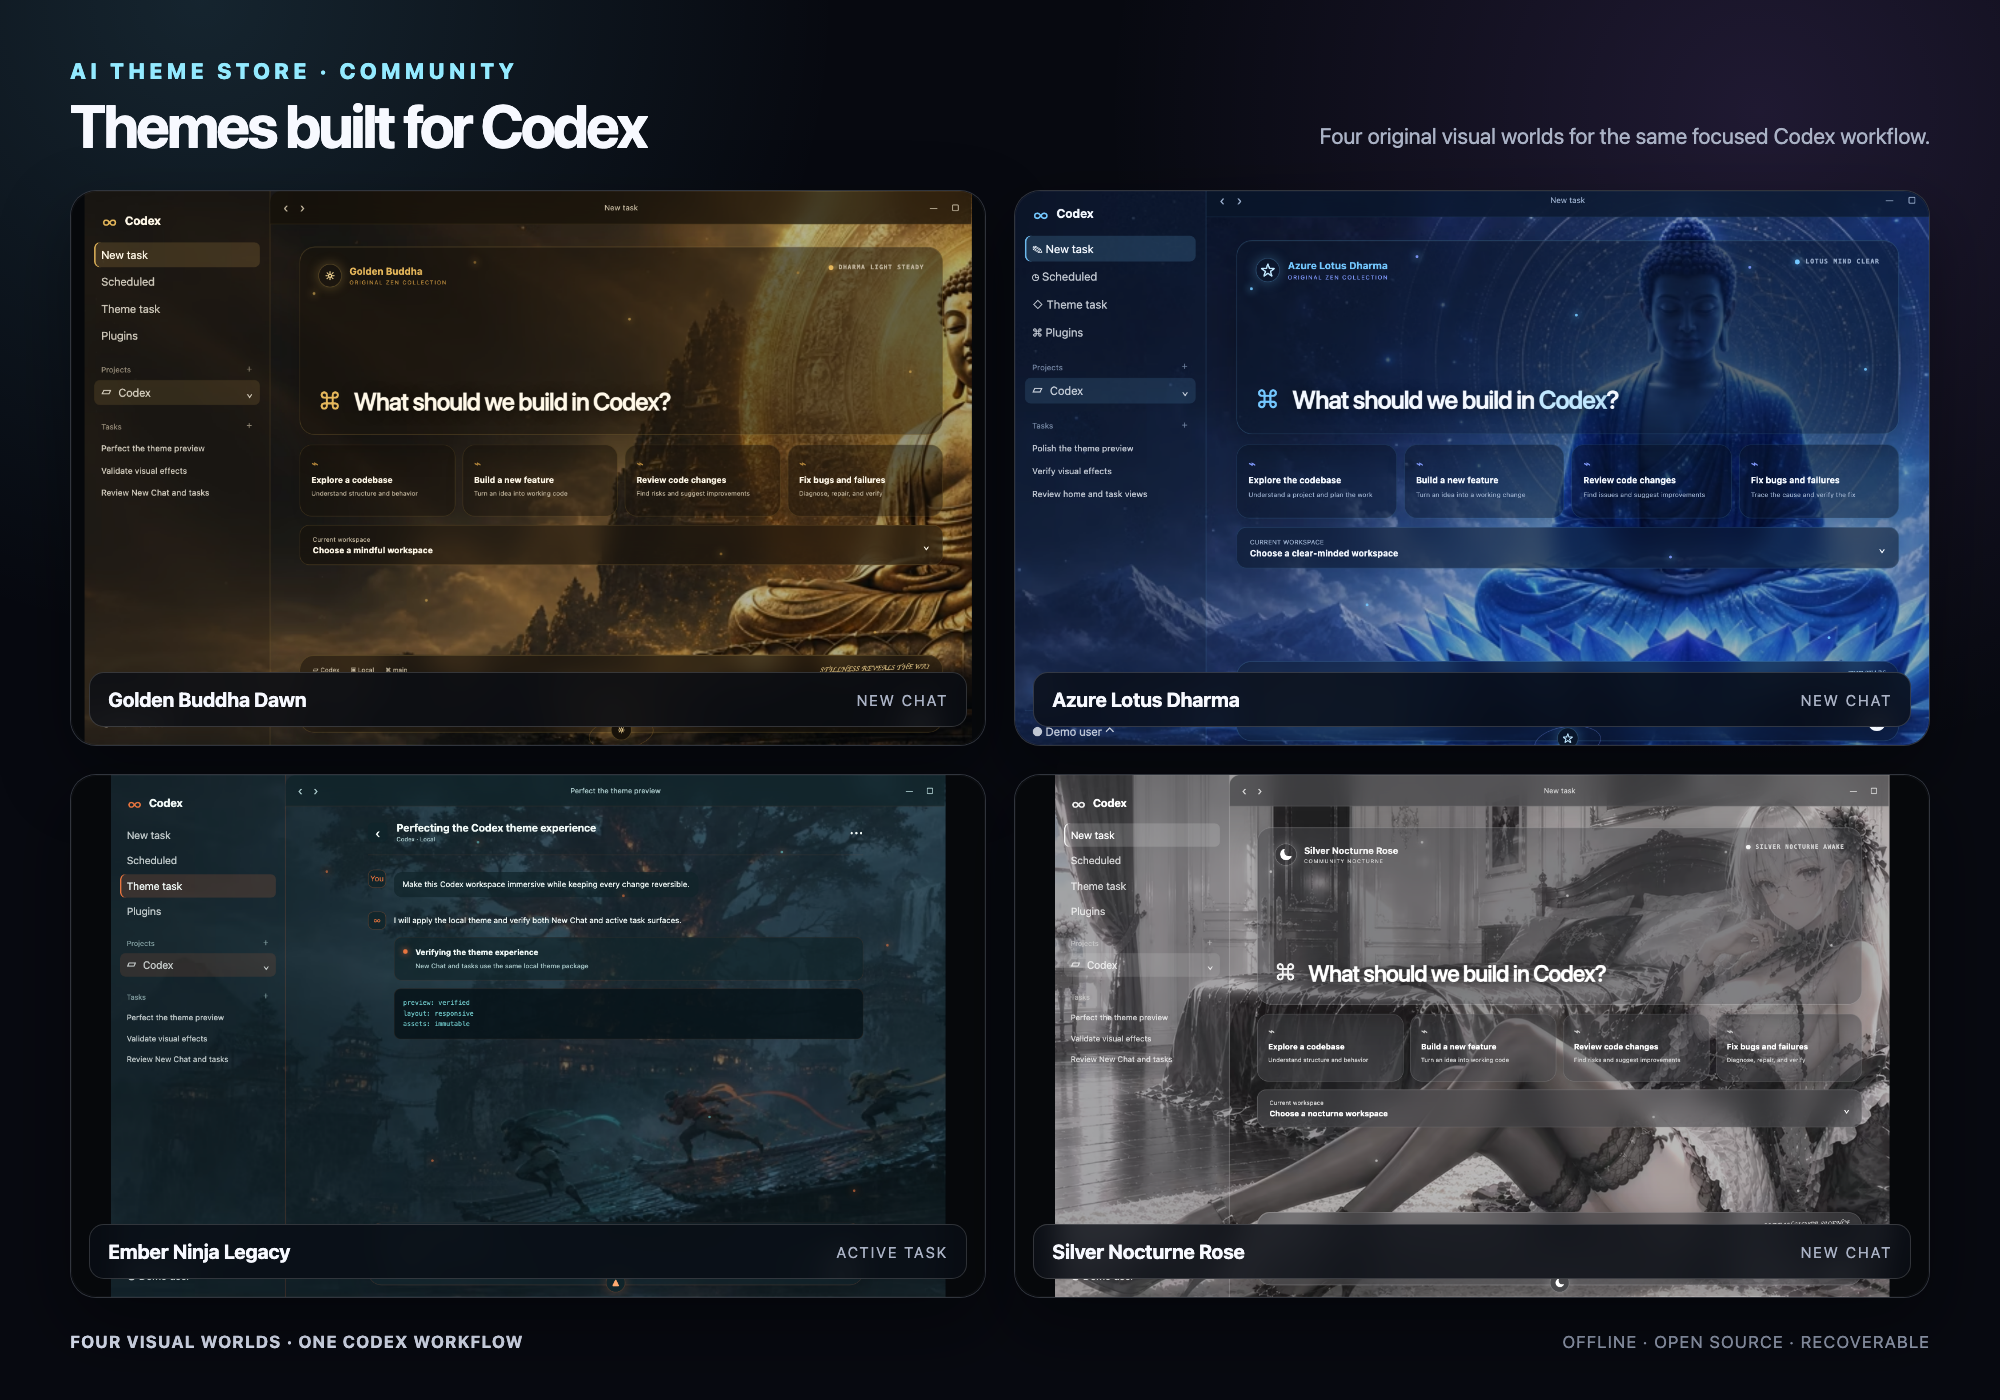
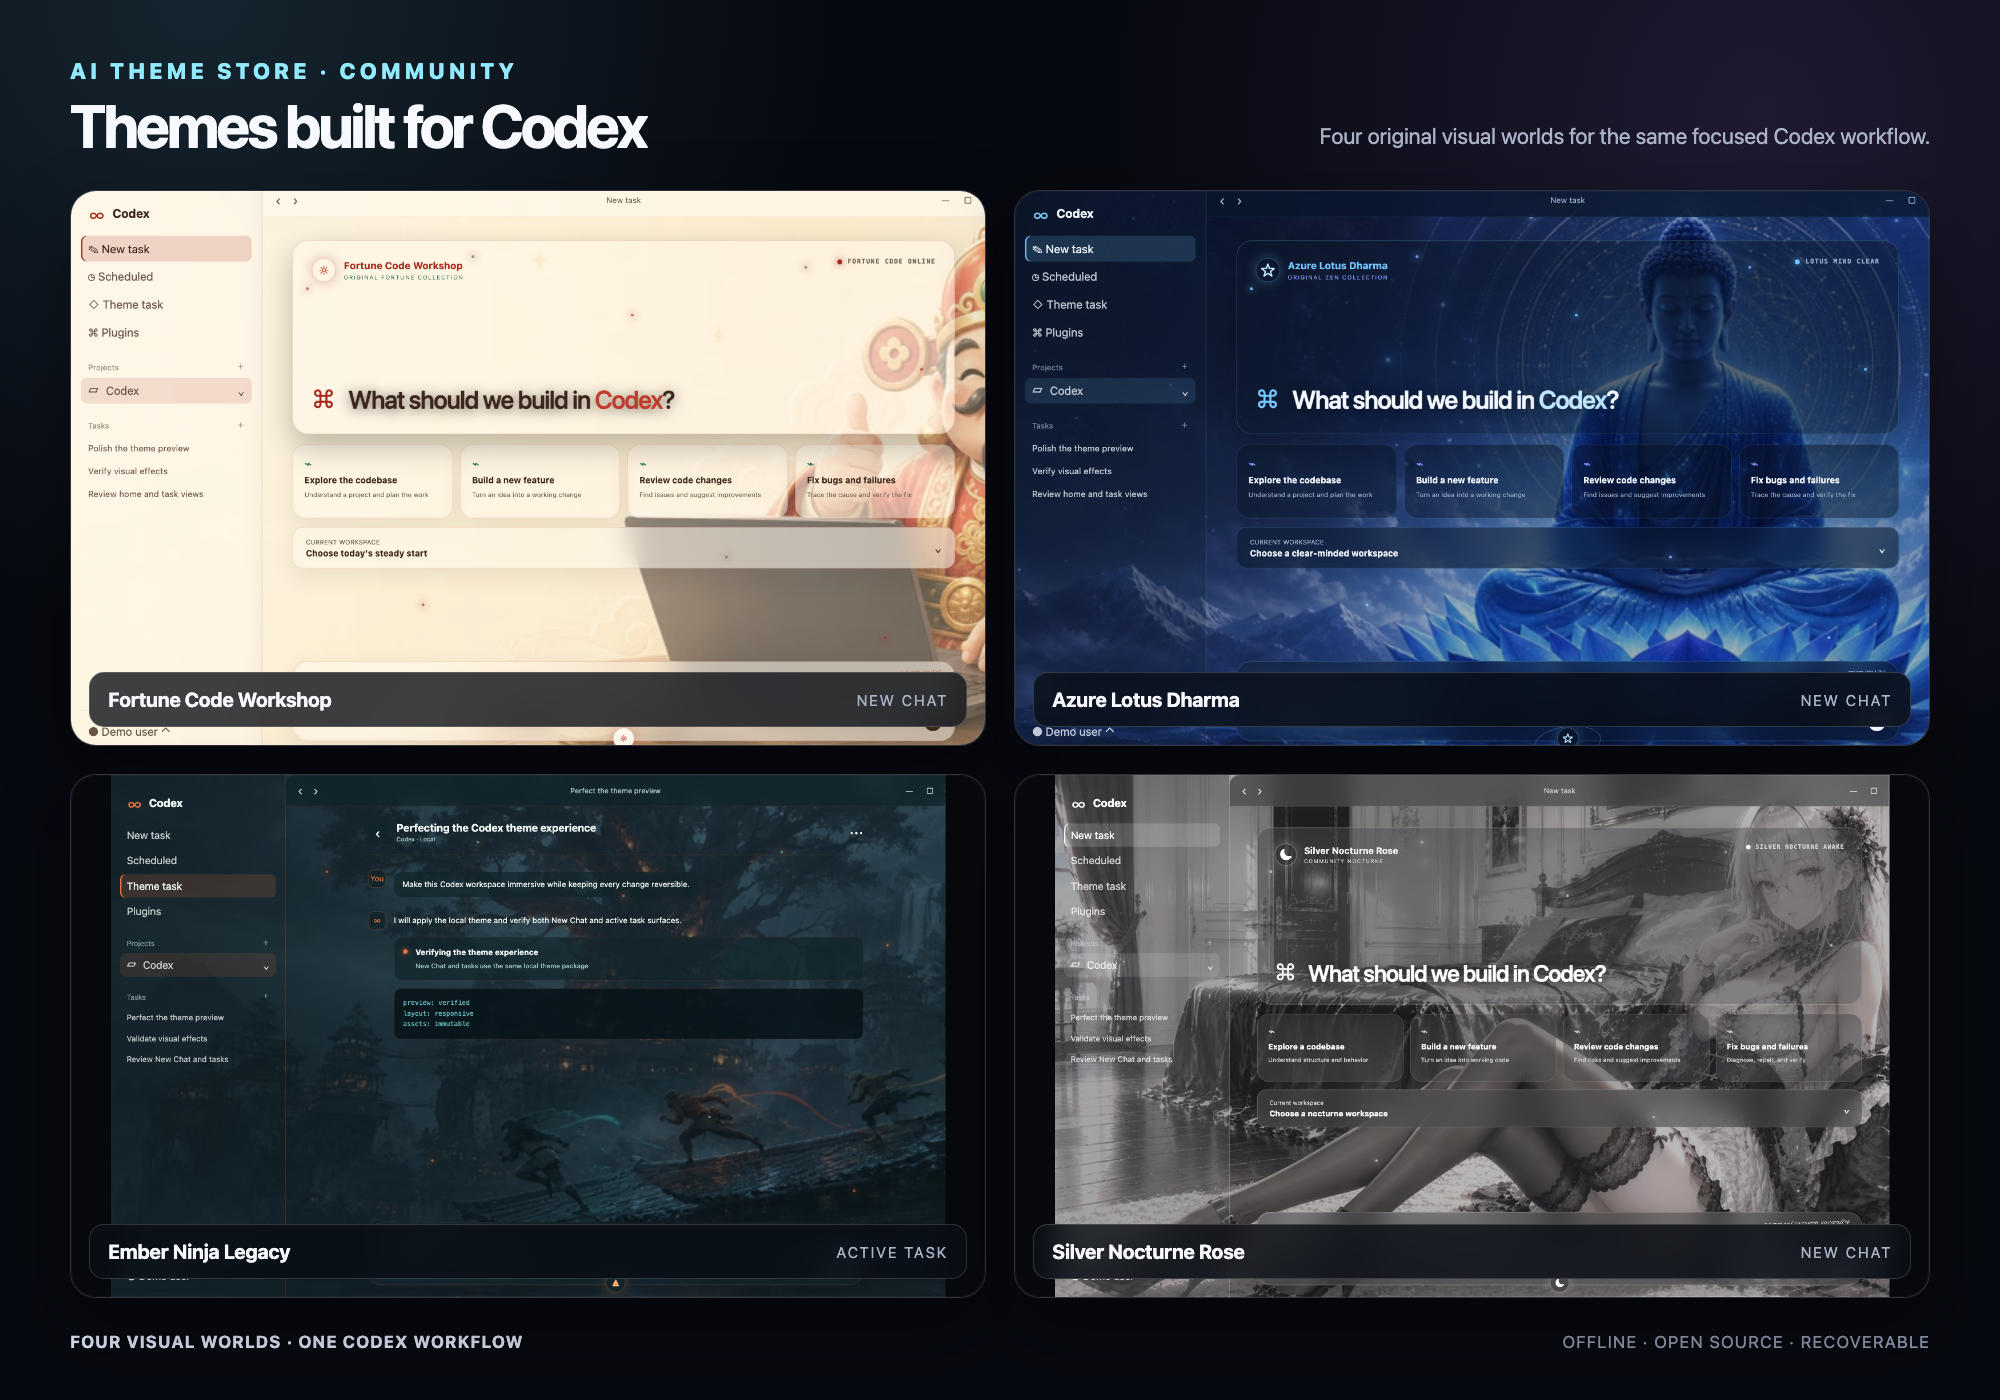
docs: feature Fortune Code Workshop (#2)

Changed region(s): [[0.031, 0.1229, 0.496, 0.5529]]

diff --git a/docs/images/README.md b/docs/images/README.md
@@ -1,10 +1,10 @@
 # README image provenance
 
 The PNG files in this directory are sanitized, high-fidelity Codex interface
-previews. The README showcase uses these project-owned source themes from the
-wider ThemeStore catalog:
+previews and project social artwork. The README showcase uses these
+project-owned source themes from the wider ThemeStore catalog:
 
-- `golden-buddha-dawn/hero.png` — original Buddha and Zen collection
+- `fortune-code-workshop/hero.png` — original Chinese fortune-workbench collection
 - `azure-lotus-dharma/hero.png` — original blue Buddha and Zen collection
 - `ember-ninja-legacy/hero.png` — original, non-franchise ninja world
 - `silver-nocturne-rose/hero.png` — ThemeStore Community theme
@@ -13,6 +13,9 @@ The original ninja asset is used deliberately instead of the personal-use
 `hero-ip.png` fan asset. No third-party character fan artwork is included.
 The showcase themes are examples of the engine's range and are not part of the
 three starter theme packages bundled with this repository.
+
+`x-launch-fortune-code-workshop.png` is a deterministic campaign composition
+built from the sanitized Fortune Code Workshop preview.
 
 The images contain no real account, project, file path, server, or conversation
 data.

diff --git a/README.md b/README.md
@@ -18,12 +18,12 @@ making every change reversible.
 ## Codex, themed
 
 This sanitized, high-fidelity showcase brings together four visual worlds from
-the wider ThemeStore catalog: **Golden Buddha Dawn**, **Azure Lotus Dharma**,
+the wider ThemeStore catalog: **Fortune Code Workshop**, **Azure Lotus Dharma**,
 **Ember Ninja Legacy**, and **Silver Nocturne Rose**. It demonstrates both New
 Chat and active task surfaces without using real account, project, or
 conversation data.
 
-![Golden Buddha Dawn, Azure Lotus Dharma, Ember Ninja Legacy, and Silver Nocturne Rose themes for Codex](./docs/images/codex-theme-showcase.png)
+![Fortune Code Workshop, Azure Lotus Dharma, Ember Ninja Legacy, and Silver Nocturne Rose themes for Codex](./docs/images/codex-theme-showcase.png)
 
 The ninja panel uses the original, non-franchise `Ember Ninja Legacy` artwork.
 No third-party character fan art is included in this repository.

diff --git a/README.zh-CN.md b/README.zh-CN.md
@@ -16,10 +16,10 @@
 ## Codex 主题效果
 
 这张经过信息清理的高保真组合图展示了完整主题库中的四种视觉世界：
-**佛陀 · 万山朝光**、**佛陀 · 青莲法界**、**Ember Ninja Legacy** 与
+**财神 · 稳稳开工**、**佛陀 · 青莲法界**、**Ember Ninja Legacy** 与
 **银夜蔷薇**，同时覆盖 New Chat 和运行中任务，不包含任何真实账号、项目或对话数据。
 
-![Codex 的金色佛陀、蓝色佛陀、Ember Ninja Legacy 与银夜蔷薇主题组合效果](./docs/images/codex-theme-showcase.png)
+![Codex 的财神、蓝色佛陀、Ember Ninja Legacy 与银夜蔷薇主题组合效果](./docs/images/codex-theme-showcase.png)
 
 忍者画面使用原创、无第三方角色的 `Ember Ninja Legacy` 素材。本仓库未包含任何
 第三方角色同人图片。
